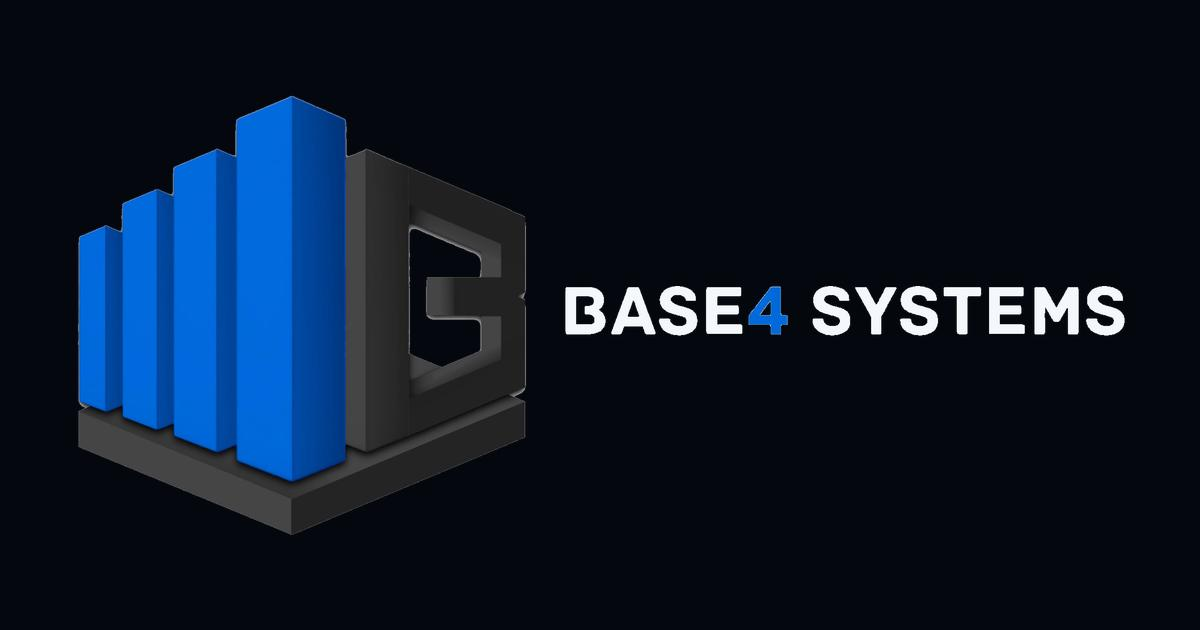
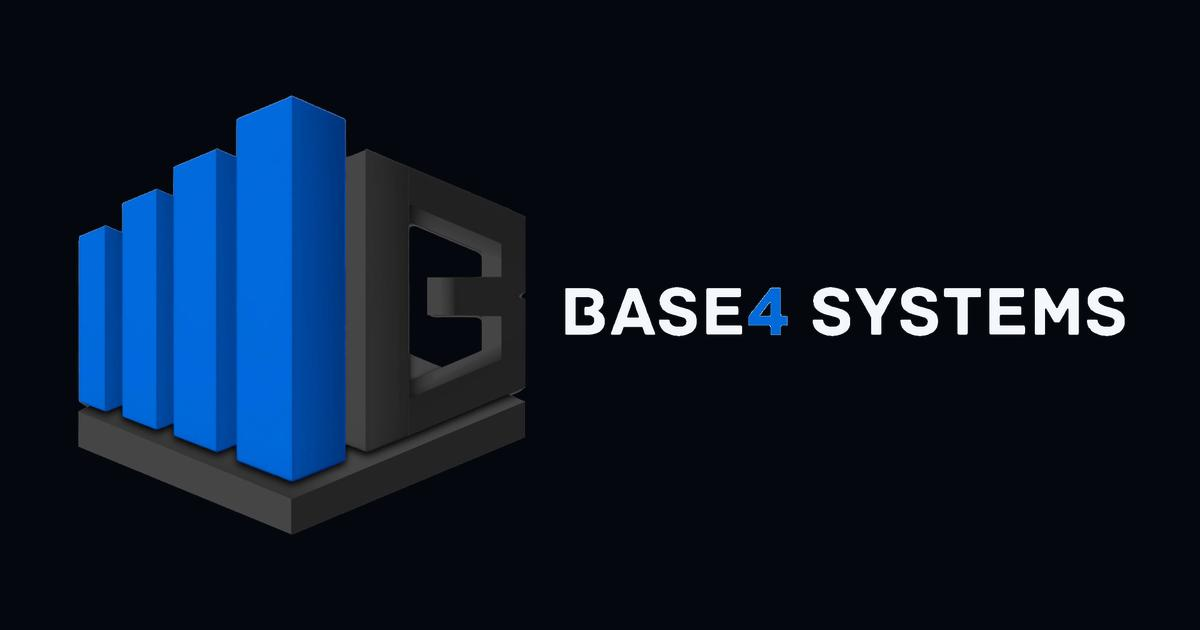
feat: add interactive B4 Charge showcase

diff --git a/src/styles.css b/src/styles.css
@@ -138,6 +138,25 @@ svg { width: 20px; fill: none; stroke: currentColor; stroke-width: 1.7; stroke-l
 .charge-scene{position:relative;min-height:110svh;display:grid;grid-template-columns:.72fr 1.28fr;gap:7vw;align-items:center;padding:130px max(32px,calc((100% - 1420px)/2));overflow:hidden;background:linear-gradient(135deg,#0a66d1,#0b50b1 50%,#071b3b);color:white}.charge-scene::before{content:'';position:absolute;width:70vw;height:70vw;right:-25vw;top:-30vw;border-radius:50%;background:radial-gradient(circle,rgba(97,183,255,.36),transparent 62%);filter:blur(20px)}.charge-heading{position:relative;z-index:3}.charge-heading>span{font-size:9px;font-weight:800;letter-spacing:.18em;color:#b9dcff}.charge-heading h2{margin:20px 0;font-size:clamp(48px,6vw,86px);line-height:.93;letter-spacing:-.065em}.charge-heading>p{max-width:480px;color:#c0dbf6;font-size:15px;line-height:1.7}.charge-heading .action{margin-top:20px}.charge-object{position:relative;z-index:2;height:680px;perspective:1300px;transition-delay:.15s}.charge-device{position:absolute;left:8%;right:0;top:10%;min-height:500px;border:1px solid rgba(224,241,255,.22);border-radius:30px;background:linear-gradient(145deg,rgba(7,18,39,.97),rgba(3,9,19,.95));box-shadow:0 80px 100px rgba(0,8,29,.42),inset 0 0 0 8px rgba(255,255,255,.015);transform:rotateY(-10deg) rotateX(4deg);overflow:hidden;animation:deviceFloat 6s ease-in-out infinite}.charge-device>header{height:72px;display:flex;align-items:center;padding:0 26px;border-bottom:1px solid rgba(255,255,255,.08)}.charge-device header img{width:38px;height:38px;object-fit:contain}.charge-device header strong{margin-left:8px}.charge-device header>span{margin-left:auto;padding:8px 10px;border:1px solid rgba(255,255,255,.1);border-radius:99px;color:#8ca0b8;font-size:8px;text-transform:uppercase;letter-spacing:.08em}.charge-device header>span i{display:inline-block;width:6px;height:6px;margin-right:5px;border-radius:50%;background:#59dca5;box-shadow:0 0 12px #59dca5}.charge-device>main{display:grid;grid-template-columns:1fr .65fr;gap:14px;padding:26px}.charge-total{position:relative;min-height:290px;padding:24px;border-radius:18px;background:linear-gradient(145deg,rgba(16,111,233,.18),rgba(255,255,255,.025));overflow:hidden}.charge-total small{color:#6e8198;font-size:9px;text-transform:uppercase;letter-spacing:.1em}.charge-total strong{display:block;margin-top:7px;font-size:26px}.wave{position:absolute;left:0;right:0;bottom:25px;height:150px}.wave::before{content:'';position:absolute;inset:0;background:linear-gradient(transparent,rgba(11,112,236,.15));clip-path:polygon(0 84%,12% 70%,22% 76%,36% 42%,48% 58%,60% 33%,72% 48%,85% 18%,100% 5%,100% 100%,0 100%)}.wave i{position:absolute;left:0;right:0;bottom:35px;height:2px;background:linear-gradient(90deg,transparent,#2c9cff,transparent);transform:rotate(-9deg);box-shadow:0 0 15px #1488ff}.wave i+ i{bottom:78px;rotate:-6deg;opacity:.4}.charge-actions{display:flex;flex-direction:column;gap:9px}.charge-actions span{display:flex;align-items:center;min-height:60px;padding:0 15px;border-radius:13px;background:rgba(255,255,255,.04);color:#aab7c7;font-size:11px}.charge-activity{grid-column:1/-1;display:flex;align-items:center;gap:12px;padding:16px;border-radius:14px;background:rgba(255,255,255,.035)}.charge-activity>i{width:9px;height:9px;border-radius:50%;background:#56dba4;box-shadow:0 0 13px #56dba4}.charge-activity strong,.charge-activity small{display:block}.charge-activity strong{font-size:11px}.charge-activity small{color:#728399;font-size:8px}.device-shadow{position:absolute;left:12%;right:2%;bottom:8%;height:70px;border-radius:50%;background:#001430;filter:blur(34px);opacity:.7}
 @keyframes deviceFloat{50%{translate:0 -10px;rotate:.3deg}}
 
+/* interactive B4 Charge product demo */
+.charge-device{left:0;top:2%;min-height:610px;border-radius:24px;transform:rotateY(-7deg) rotateX(2deg);animation:deviceFloat 7s ease-in-out infinite}
+.charge-demo{height:610px;display:grid;grid-template-columns:68px 1fr;background:#f3f6fb;color:#111827;font-family:Inter,ui-sans-serif,system-ui,sans-serif}
+.demo-sidebar{position:relative;display:flex;flex-direction:column;align-items:center;gap:8px;padding:13px 9px;background:#0a1020;color:#71809a}
+.demo-app-mark{display:flex;align-items:center;gap:4px;height:42px;margin-bottom:8px;color:#fff}.demo-app-mark img{width:30px!important;height:30px!important;object-fit:contain}.demo-app-mark b{font-size:10px}
+.demo-sidebar>button{width:48px;height:48px;display:grid;place-items:center;border:0;border-radius:10px;background:transparent;color:#748198;cursor:pointer;transition:.2s}.demo-sidebar>button i{font-style:normal;font-size:18px;line-height:1}.demo-sidebar>button span{display:none}.demo-sidebar>button:hover,.demo-sidebar>button.active{background:#1677ed;color:#fff;box-shadow:0 8px 20px rgba(22,119,237,.25)}.demo-avatar{width:30px;height:30px;display:grid;place-items:center;margin-top:auto;border-radius:50%;background:#182337;color:#9bb0cc;font-size:8px;font-weight:800}
+.demo-workspace{min-width:0;display:grid;grid-template-rows:58px 1fr 26px;background:#f5f7fb}.demo-header{display:flex;align-items:center;gap:16px;padding:0 18px;border-bottom:1px solid #e3e8f0;background:rgba(255,255,255,.94)}.demo-header>div:first-child{display:flex;flex-direction:column}.demo-header small{color:#8290a4;font-size:6px;font-weight:800;letter-spacing:.14em}.demo-header strong{font-size:13px}.demo-search{width:150px;margin-left:auto;padding:8px 10px;border:1px solid #e1e7ef;border-radius:7px;color:#a1acba;font-size:8px}.demo-search span{margin-left:5px}.demo-live{display:flex;align-items:center;gap:5px;color:#617087;font-size:7px}.demo-live i,.demo-workspace>footer i{width:5px;height:5px;border-radius:50%;background:#31bd86;box-shadow:0 0 8px rgba(49,189,134,.5)}
+.demo-workspace>main{min-height:0;overflow:hidden;padding:16px}.demo-workspace>footer{display:flex;align-items:center;justify-content:center;gap:6px;border-top:1px solid #e6eaf1;background:#fff;color:#7b8798;font-size:7px}
+.demo-view{height:100%;animation:demoViewIn .28s ease}.demo-view-heading{display:flex;align-items:center;justify-content:space-between;margin-bottom:14px}.demo-view-heading>div{display:flex;flex-direction:column}.demo-view-heading small{color:#7e8da2;font-size:6px;font-weight:800;letter-spacing:.14em}.demo-view-heading strong{font-size:17px}.demo-view-heading>button{padding:8px 10px;border:0;border-radius:7px;background:#1477ee;color:#fff;font-size:7px;font-weight:750}.demo-filter{padding:7px 9px;border:1px solid #e1e6ef;border-radius:7px;background:#fff;color:#69778b;font-size:7px}
+.demo-welcome{display:flex;align-items:center;gap:9px;padding:10px 12px;border:1px solid #e4e9f1;border-radius:10px;background:#fff}.demo-welcome>span{width:30px;height:30px;display:grid;place-items:center;border-radius:8px;background:#1477ee;color:#fff;font-size:9px;font-weight:850}.demo-welcome div{display:flex;flex-direction:column}.demo-welcome strong{font-size:10px}.demo-welcome small{margin-top:2px;color:#8995a5;font-size:7px}
+.demo-kpis{display:grid;grid-template-columns:repeat(3,1fr);gap:8px;margin-top:9px}.demo-kpis article{padding:11px;border:1px solid #e4e9f1;border-radius:9px;background:#fff}.demo-kpis small,.demo-chart small,.demo-due>header small{display:block;color:#77869a;font-size:7px}.demo-kpis strong{display:block;margin:5px 0 3px;font-size:14px;letter-spacing:-.04em}.demo-kpis span{color:#3a9675;font-size:6px}.demo-kpis article:nth-child(2) span{color:#6d7d91}.demo-kpis article:nth-child(3) span{color:#d46565}
+.demo-grid{display:grid;grid-template-columns:1.15fr .85fr;gap:9px;margin-top:9px}.demo-chart,.demo-due{height:252px;padding:12px;border:1px solid #e4e9f1;border-radius:10px;background:#fff}.demo-chart>header,.demo-due>header{display:flex;align-items:center;justify-content:space-between}.demo-chart header div{display:flex;flex-direction:column}.demo-chart header strong{font-size:9px}.demo-chart header>span{color:#1477ee;font-size:6px}.demo-bars{height:158px;display:flex;align-items:flex-end;gap:8px;padding:14px 6px 0;border-bottom:1px solid #edf0f5;background:repeating-linear-gradient(to bottom,#fff 0,#fff 34px,#edf0f5 35px)}.demo-bars>i{position:relative;flex:1;min-height:18px;border-radius:4px 4px 0 0;background:#dceafb}.demo-bars>i b{position:absolute;left:0;right:0;bottom:0;border-radius:4px 4px 0 0;background:linear-gradient(#3194f5,#1477ee)}.demo-chart>footer{display:flex;justify-content:space-around;padding-top:7px;color:#9aa5b3;font-size:6px}
+.demo-due>header{height:25px}.demo-due>header button{border:0;background:none;color:#95a0af}.demo-due>div{display:grid;grid-template-columns:25px 1fr auto;align-items:center;gap:7px;padding:9px 0;border-bottom:1px solid #edf0f4}.demo-due>div>i,.demo-client-list button>i,.demo-person>i{width:23px;height:23px;display:grid;place-items:center;border-radius:50%;background:#e9f3ff;color:#1477ee;font-size:6px;font-style:normal;font-weight:800}.demo-due>div>span{display:flex;min-width:0;flex-direction:column}.demo-due b{overflow:hidden;text-overflow:ellipsis;white-space:nowrap;font-size:7px}.demo-due small{margin-top:2px;color:#9aa5b2;font-size:6px}.demo-due>div>strong{font-size:7px}
+.demo-client-list{overflow:hidden;border:1px solid #e2e8f0;border-radius:10px;background:#fff}.demo-client-list>button{width:100%;display:grid;grid-template-columns:31px 1fr auto 70px;align-items:center;gap:8px;padding:12px;border:0;border-bottom:1px solid #edf0f4;background:#fff;color:#162033;text-align:left;cursor:pointer}.demo-client-list>button:last-child{border-bottom:0}.demo-client-list>button.active{background:#eef6ff;box-shadow:inset 3px 0 #1477ee}.demo-client-list button>span{display:flex;min-width:0;flex-direction:column}.demo-client-list b{overflow:hidden;text-overflow:ellipsis;white-space:nowrap;font-size:8px}.demo-client-list small{margin-top:2px;color:#8b98a9;font-size:6px}.demo-client-list button>strong{text-align:right;font-size:8px}.demo-client-foot{display:flex;justify-content:space-between;padding:12px;color:#8895a6;font-size:7px}
+.demo-status{display:inline-flex;justify-content:center;padding:4px 6px;border-radius:99px;background:#edf1f6;color:#627186;font-size:6px;font-weight:800;white-space:nowrap}.status-em-dia,.status-recebida{background:#e5f8f0;color:#248260}.status-em-atraso,.status-vencida{background:#fff0ee;color:#c55252}.status-renegociado{background:#f1ecff;color:#7557b8}.status-pendente{background:#fff6df;color:#9a7115}
+.demo-installment-list{overflow:hidden;border:1px solid #e2e8f0;border-radius:10px;background:#fff}.demo-installment-list>header,.demo-installment-list>div{display:grid;grid-template-columns:1.55fr .7fr .75fr .7fr .6fr;align-items:center;gap:6px}.demo-installment-list>header{padding:9px 12px;background:#f8fafc;color:#8b97a8;font-size:6px;font-weight:800;text-transform:uppercase}.demo-installment-list>div{min-height:68px;padding:10px 12px;border-top:1px solid #edf0f4;color:#536176;font-size:7px}.demo-installment-list>div>strong{color:#172235;font-size:8px}.demo-installment-list>div>button{padding:7px 5px;border:0;border-radius:6px;background:#1477ee;color:#fff;font-size:6px;font-weight:800;cursor:pointer}.demo-installment-list>div>button:disabled{background:#e1e7ef;color:#8b97a7}.demo-person{display:grid;grid-template-columns:25px 1fr;align-items:center;column-gap:7px}.demo-person>i{grid-row:1/3}.demo-person>b{overflow:hidden;text-overflow:ellipsis;white-space:nowrap;color:#172235;font-size:7px}.demo-person>small{color:#929eae;font-size:6px}
+.demo-notice{position:absolute;z-index:8;left:86px;right:18px;bottom:40px;display:flex;align-items:center;gap:6px;padding:10px 12px;border:0;border-radius:8px;background:#133528;color:#c7f4df;box-shadow:0 12px 28px rgba(12,36,27,.24);text-align:left;font-size:7px;cursor:pointer}.demo-notice span{margin-left:auto;font-size:12px}
+@keyframes demoViewIn{from{opacity:0;translate:8px 0}}
+
 /* scene 05: capability, not a case-study claim */
 .capability-scene{position:relative;padding:160px max(32px,calc((100% - 1340px)/2));background:#05080e;color:white}.capability-intro>span{display:block;max-width:520px;margin-top:22px;color:#7f8b99;font-size:13px}.capability-stage{display:grid;grid-template-columns:.85fr 1.15fr;gap:7vw;align-items:center;margin-top:100px}.capability-list button{position:relative;width:100%;display:grid;grid-template-columns:1fr auto;gap:5px;padding:24px 8px;border:0;border-bottom:1px solid #1d2530;background:none;color:#647080;text-align:left;cursor:pointer;transition:padding .4s var(--ease),color .25s}.capability-list button:first-child{border-top:1px solid #1d2530}.capability-list button.active{padding-left:24px;color:white}.capability-list button small{grid-column:1;font-size:9px;font-weight:700;letter-spacing:.14em;text-transform:uppercase;color:#5f83aa}.capability-list button strong{grid-column:1;font-size:18px}.capability-list button span{grid-column:1;color:#707b89;font-size:11px}.capability-list button svg{grid-column:2;grid-row:1/4;align-self:center;opacity:0;translate:-15px 0;transition:.35s var(--ease)}.capability-list button.active svg{opacity:1;translate:0;color:var(--blue-bright)}.capability-visual{position:relative;height:610px;perspective:1000px}.screen{position:absolute;border:1px solid #243140;border-radius:19px;background:#0b111b;box-shadow:0 50px 90px rgba(0,0,0,.55);transition:transform .65s var(--ease),background .4s}.screen-back{inset:18% 16% 13% 3%;transform:rotateY(12deg) rotateX(3deg) translateZ(-50px);opacity:.45;padding:30px}.screen-back span{display:block;width:70%;height:12px;margin:18px;border-radius:6px;background:#162332}.screen-front{inset:8% 4% 5% 14%;transform:rotateY(-8deg) rotateX(2deg);overflow:hidden}.screen-front>header{height:50px;display:flex;align-items:center;gap:6px;padding:0 16px;border-bottom:1px solid #1c2734}.screen-front header i{width:6px;height:6px;border-radius:50%;background:#3e4b5a}.screen-front>main{padding:34px}.screen-front main>span,.screen-front main>strong{display:block;border-radius:7px;background:#192533}.screen-front main>span{width:40%;height:10px}.screen-front main>strong{width:76%;height:32px;margin:15px 0 26px;background:linear-gradient(90deg,#163e6d,#0c74e6)}.screen-front main>div{display:grid;grid-template-columns:repeat(3,1fr);gap:10px}.screen-front main div i{height:160px;border-radius:11px;background:linear-gradient(#152131,#0d141e)}.visual-system .screen-front main div i:nth-child(2){background:linear-gradient(rgba(8,120,237,.35),#0c1724)}.visual-flow .screen-front{transform:rotateY(-4deg) rotateX(-1deg) translateX(-3%)}.visual-web .screen-front{transform:rotateY(-10deg) rotateX(3deg) translateY(-2%)}.visual-label{position:absolute;right:0;bottom:2%;padding:11px 16px;border-radius:99px;background:var(--blue);font-size:9px;font-weight:700;text-transform:uppercase;letter-spacing:.12em;box-shadow:0 10px 30px rgba(8,120,237,.3)}
 
@@ -173,6 +192,14 @@ svg { width: 20px; fill: none; stroke: currentColor; stroke-width: 1.7; stroke-l
   .hero-sticky{min-height:830px}.hero-mark{width:82vw}.hero-copy{margin-top:-5px}.hero-copy h1{font-size:44px}.action{width:100%;font-size:10px}.hero-footnote{font-size:8px}.hero-footnote span{display:none}
   .transformation-sticky{padding-inline:16px}.scene-copy h2{font-size:43px}.matter-object{width:245px}.transform-core{width:270px}.hardware-words span,.software-words span{font-size:9px}.solutions-scene{padding-top:100px}.solution-switch{width:100%}.answer-stage h3{font-size:43px}
   .charge-scene{min-height:950px}.charge-heading h2{font-size:48px}.charge-object{height:500px}.charge-device{min-height:440px;border-radius:20px}.charge-device>header{padding:0 16px}.charge-device>main{padding:15px}.charge-actions span{font-size:8px;padding:0 6px}.capability-intro h2,.presence-heading h2,.contact-intro h2{font-size:44px}.capability-visual{height:370px}.screen-front>main{padding:20px}.screen-front main div i{height:95px}.people-flow a{grid-template-columns:65px 1fr auto}.contact-scene form{padding:22px 16px}.contact-choice{grid-template-columns:1fr}.trust-sentence{font-size:8px;gap:9px}.site-footer nav{gap:14px}
+}
+
+@media (max-width:820px){
+  .charge-object{height:585px}.charge-device{height:560px;min-height:560px}.charge-demo{height:560px;grid-template-columns:54px 1fr}.demo-sidebar{padding-inline:5px}.demo-sidebar>button{width:40px;height:42px}.demo-workspace>main{padding:11px}.demo-header{padding-inline:12px}.demo-search{display:none}.demo-grid{grid-template-columns:1fr}.demo-chart{height:245px}.demo-due{display:none}.demo-installment-list>header,.demo-installment-list>div{grid-template-columns:1.45fr .75fr .75fr}.demo-installment-list>header span:nth-child(4),.demo-installment-list>header span:nth-child(5),.demo-installment-list>div>.demo-status,.demo-installment-list>div>button{display:none}.demo-client-list>button{grid-template-columns:28px 1fr auto}.demo-client-list button>strong{display:none}.demo-notice{left:66px}
+}
+
+@media (max-width:520px){
+  .charge-object{height:535px}.charge-device{height:510px;min-height:510px}.charge-demo{height:510px;grid-template-columns:46px 1fr}.demo-app-mark b,.demo-live{display:none}.demo-header{height:52px}.demo-kpis{gap:5px}.demo-kpis article{padding:8px}.demo-kpis strong{font-size:11px}.demo-chart{height:228px}.demo-bars{height:140px}.demo-client-list>button{padding:10px 8px}.demo-status{display:none}.demo-notice{left:55px;right:10px;bottom:32px}
 }
 
 @media (prefers-reduced-motion: reduce){

diff --git a/src/ChargeDemo.jsx b/src/ChargeDemo.jsx
@@ -1,0 +1,63 @@
+import { useMemo, useState } from 'react'
+import { chargeChart, chargeClients, chargeInstallments, formatChargeMoney } from './chargeDemoData.js'
+
+const views = [
+  { id: 'overview', label: 'Visão geral', icon: '◫' },
+  { id: 'clients', label: 'Clientes', icon: '◎' },
+  { id: 'installments', label: 'Parcelas', icon: '▤' },
+]
+
+function Status({ children }) {
+  return <span className={`demo-status status-${children.toLowerCase().replace(' ', '-')}`}>{children}</span>
+}
+
+function DemoNav({ view, setView }) {
+  return <aside className="demo-sidebar" aria-label="Navegação da demonstração">
+    <div className="demo-app-mark"><img src="/assets/brand/base4-symbol-transparent.png" alt=""/><b>B4</b></div>
+    {views.map(item => <button key={item.id} className={view === item.id ? 'active' : ''} onClick={() => setView(item.id)} aria-label={item.label} title={item.label}><i>{item.icon}</i><span>{item.label}</span></button>)}
+    <div className="demo-avatar">TD</div>
+  </aside>
+}
+
+function DemoHeader({ title }) {
+  return <header className="demo-header"><div><small>B4 CHARGE DEMO</small><strong>{title}</strong></div><div className="demo-search">⌕ <span>Pesquisar...</span></div><span className="demo-live"><i/> Dados locais</span></header>
+}
+
+function Overview({ installments, paid }) {
+  const open = installments.filter(item => !paid.has(item.id))
+  const overdue = open.filter(item => item.status === 'Vencida')
+  const received = 850 + [...paid].reduce((sum, id) => sum + (installments.find(item => item.id === id)?.value || 0), 0)
+  return <div className="demo-view demo-overview">
+    <div className="demo-welcome"><span>B4</span><div><strong>Bem-vindo ao B4 Charge</strong><small>Dados financeiros em uma visão simples</small></div></div>
+    <div className="demo-kpis">
+      <article><small>Recebido no mês</small><strong>{formatChargeMoney(received)}</strong><span>↑ confirmado</span></article>
+      <article><small>Em aberto</small><strong>{formatChargeMoney(open.reduce((sum, item) => sum + item.value, 0))}</strong><span>{open.length} parcelas</span></article>
+      <article><small>Atrasado</small><strong>{formatChargeMoney(overdue.reduce((sum, item) => sum + item.value, 0))}</strong><span>{overdue.length} parcela</span></article>
+    </div>
+    <div className="demo-grid">
+      <article className="demo-chart"><header><div><small>Recebimentos e previsão</small><strong>Últimos 6 meses</strong></div><span>Recebido</span></header><div className="demo-bars">{chargeChart.map((height, index) => <i key={index} style={{ height: `${height}%` }}><b style={{ height: `${Math.max(16, height - 22)}%` }}/></i>)}</div><footer><span>jun</span><span>jul</span><span>ago</span><span>set</span><span>out</span><span>nov</span></footer></article>
+      <article className="demo-due"><header><small>Próximos vencimentos</small><button aria-label="Abrir parcelas">•••</button></header>{open.slice(0, 3).map(item => <div key={item.id}><i>{item.short}</i><span><b>{item.client}</b><small>{item.due} · {item.part}</small></span><strong>{formatChargeMoney(item.value)}</strong></div>)}</article>
+    </div>
+  </div>
+}
+
+function Clients() {
+  const [selected, setSelected] = useState(1)
+  return <div className="demo-view"><div className="demo-view-heading"><div><small>CARTEIRA</small><strong>Clientes</strong></div><button>+ Novo cliente</button></div><div className="demo-client-list">{chargeClients.map(client => <button key={client.id} className={selected === client.id ? 'active' : ''} onClick={() => setSelected(client.id)}><i>{client.initials}</i><span><b>{client.name}</b><small>{client.detail}</small></span><Status>{client.status}</Status><strong>{formatChargeMoney(client.balance)}</strong></button>)}</div><div className="demo-client-foot"><span>{chargeClients.length} clientes demonstrativos</span><span>Selecione uma linha para explorar</span></div></div>
+}
+
+function Installments({ installments, paid, receive }) {
+  return <div className="demo-view"><div className="demo-view-heading"><div><small>RECEBIMENTOS</small><strong>Parcelas</strong></div><span className="demo-filter">Todas ▾</span></div><div className="demo-installment-list"><header><span>Cliente</span><span>Vencimento</span><span>Valor</span><span>Status</span><span>Ação</span></header>{installments.map(item => { const isPaid = paid.has(item.id); return <div key={item.id}><span className="demo-person"><i>{item.short}</i><b>{item.client}</b><small>Parcela {item.part}</small></span><span>{item.due}/2026</span><strong>{formatChargeMoney(item.value)}</strong><Status>{isPaid ? 'Recebida' : item.status}</Status><button disabled={isPaid} onClick={() => receive(item)}>{isPaid ? 'Concluído' : 'Receber'}</button></div>})}</div></div>
+}
+
+export default function ChargeDemo() {
+  const [view, setView] = useState('overview')
+  const [paid, setPaid] = useState(() => new Set())
+  const [notice, setNotice] = useState('')
+  const title = useMemo(() => views.find(item => item.id === view)?.label || 'Visão geral', [view])
+  const receive = item => {
+    setPaid(current => new Set(current).add(item.id))
+    setNotice(`${item.client}: ${formatChargeMoney(item.value)} recebido apenas nesta demonstração.`)
+  }
+  return <div className="charge-demo" data-testid="charge-demo"><DemoNav view={view} setView={setView}/><div className="demo-workspace"><DemoHeader title={title}/><main>{view === 'overview' && <Overview installments={chargeInstallments} paid={paid}/>} {view === 'clients' && <Clients/>} {view === 'installments' && <Installments installments={chargeInstallments} paid={paid} receive={receive}/>}</main><footer><i/> Demonstração isolada · nenhum dado é salvo</footer></div>{notice && <button className="demo-notice" onClick={() => setNotice('')} aria-label="Fechar aviso">✓ {notice}<span>×</span></button>}</div>
+}

diff --git a/src/App.jsx b/src/App.jsx
@@ -1,4 +1,5 @@
 import { useEffect, useId, useRef, useState } from 'react'
+import ChargeDemo from './ChargeDemo.jsx'
 import { capabilities, people, problemsByField } from './data.js'
 
 const BRAND = '/assets/brand/'
@@ -134,7 +135,7 @@ function SolutionsScene() {
 }
 
 function ChargeScene() {
-  return <section className="charge-scene" id="charge"><div className="charge-heading" data-reveal><span>PRODUTO BASE4 · EM DESENVOLVIMENTO</span><h2>Cobrança que<br/>acontece no fluxo.</h2><p>O BASE4 Charge organiza clientes, pagamentos e lembretes em uma experiência simples.</p><a className="action action-dark" href={wa(CONTACTS.hardware, 'Olá! Tenho interesse em conhecer o BASE4 Charge.')} target="_blank" rel="noreferrer">Conhecer o Charge <Arrow /></a></div><div className="charge-object" data-reveal><div className="charge-device"><header><img src={`${BRAND}base4-symbol-transparent.png`} alt=""/><strong>Charge</strong><span><i/> Demonstração</span></header><main><div className="charge-total"><small>Fluxo monitorado</small><strong>Visão em tempo real</strong><div className="wave"><i/><i/></div></div><div className="charge-actions"><span>Clientes</span><span>Cobranças</span><span>Lembretes</span></div><div className="charge-activity"><i/><div><strong>Pagamento identificado</strong><small>Status atualizado automaticamente</small></div></div></main></div><div className="device-shadow"/><Particles count={12}/></div></section>
+  return <section className="charge-scene" id="charge"><div className="charge-heading" data-reveal><span>PRODUTO BASE4 · DEMONSTRAÇÃO INTERATIVA</span><h2>Cobrança que<br/>acontece no fluxo.</h2><p>Explore uma versão compacta do B4 Charge. Navegue entre indicadores, clientes e parcelas — tudo funciona apenas nesta página e nenhum dado é salvo.</p><a className="action action-dark" href={wa(CONTACTS.hardware, 'Olá! Tenho interesse em conhecer o B4 Charge.')} target="_blank" rel="noreferrer">Conhecer o Charge <Arrow /></a></div><div className="charge-object" data-reveal><div className="charge-device"><ChargeDemo/></div><div className="device-shadow"/><Particles count={12}/></div></section>
 }
 
 function CapabilityScene() {

diff --git a/tests/content.test.js b/tests/content.test.js
@@ -1,6 +1,7 @@
 import test from 'node:test'
 import assert from 'node:assert/strict'
 import { capabilities, people, problemsByField } from '../src/data.js'
+import { chargeClients, chargeInstallments } from '../src/chargeDemoData.js'
 
 test('mantém as duas frentes com problemas e respostas reais', () => {
   assert.equal(problemsByField.hardware.length, 4)
@@ -18,4 +19,11 @@ test('mantém somente telefones brasileiros válidos da equipe', () => {
 test('declara capacidades sem métricas ou clientes fabricados', () => {
   assert.deepEqual(capabilities.map(item => item.visual), ['web', 'system', 'flow'])
   assert.ok(capabilities.every(item => item.label && item.title && item.detail))
+})
+
+test('mantém a demonstração do Charge isolada em dados fictícios', () => {
+  assert.ok(chargeClients.length >= 3)
+  assert.ok(chargeInstallments.length >= 3)
+  assert.ok(chargeClients.every(client => /Demo|Demonstração/.test(client.name)))
+  assert.ok(chargeInstallments.every(item => /Demo|Demonstração/.test(item.client)))
 })

diff --git a/src/chargeDemoData.js b/src/chargeDemoData.js
@@ -1,0 +1,15 @@
+export const chargeClients = [
+  { id: 1, initials: 'AD', name: 'Ana Demo Silva', detail: 'Notebook Profissional', status: 'Em dia', balance: 3200 },
+  { id: 2, initials: 'BD', name: 'Bruno Demo Santos', detail: 'Smartphone Empresarial', status: 'Em atraso', balance: 1200 },
+  { id: 3, initials: 'CD', name: 'Carla Demonstração Lima', detail: 'Kit Energia Solar', status: 'Renegociado', balance: 8200 },
+]
+
+export const chargeInstallments = [
+  { id: 1, client: 'Carla Demonstração Lima', short: 'CD', due: '01/09', part: '2/8', value: 1025, status: 'Pendente' },
+  { id: 2, client: 'Bruno Demo Santos', short: 'BD', due: '18/08', part: '3/6', value: 400, status: 'Vencida' },
+  { id: 3, client: 'Ana Demo Silva', short: 'AD', due: '01/09', part: '5/12', value: 400, status: 'Pendente' },
+]
+
+export const chargeChart = [32, 48, 39, 66, 52, 82]
+
+export const formatChargeMoney = value => value.toLocaleString('pt-BR', { style: 'currency', currency: 'BRL' })

diff --git a/scripts/prepare_brand_assets.py b/scripts/prepare_brand_assets.py
@@ -16,14 +16,19 @@ def extract_from_white(image: Image.Image) -> Image.Image:
     for red, green, blue in source.get_flattened_data():
         darkest = min(red, green, blue)
         spread = max(red, green, blue) - darkest
-        # The supplied artwork is already antialiased on a very pale backdrop.
-        # Keep every opaque logo pixel byte-for-byte so charcoal shading does
-        # not collapse to black; fade only light, low-chroma backdrop pixels.
-        alpha = 0 if darkest >= 150 and spread <= 72 else 255
+        # Preserve the original opaque colors, but reverse the pale matte only
+        # on neutral transition pixels. This removes the last white fringe
+        # without crushing the charcoal faces of the mark to black.
+        alpha = 255
+        if spread <= 72 and darkest >= 78:
+            alpha = round(max(0, min(255, (150 - darkest) / 72 * 255)))
+            if 0 < alpha < 255:
+                factor = 255 / alpha
+                red = round(max(0, min(255, 255 + (red - 255) * factor)))
+                green = round(max(0, min(255, 255 + (green - 255) * factor)))
+                blue = round(max(0, min(255, 255 + (blue - 255) * factor)))
         pixels.append((red, green, blue, alpha))
     output.putdata(pixels)
-    alpha = output.getchannel("A").filter(ImageFilter.GaussianBlur(0.35))
-    output.putalpha(alpha)
     return output
 
 
